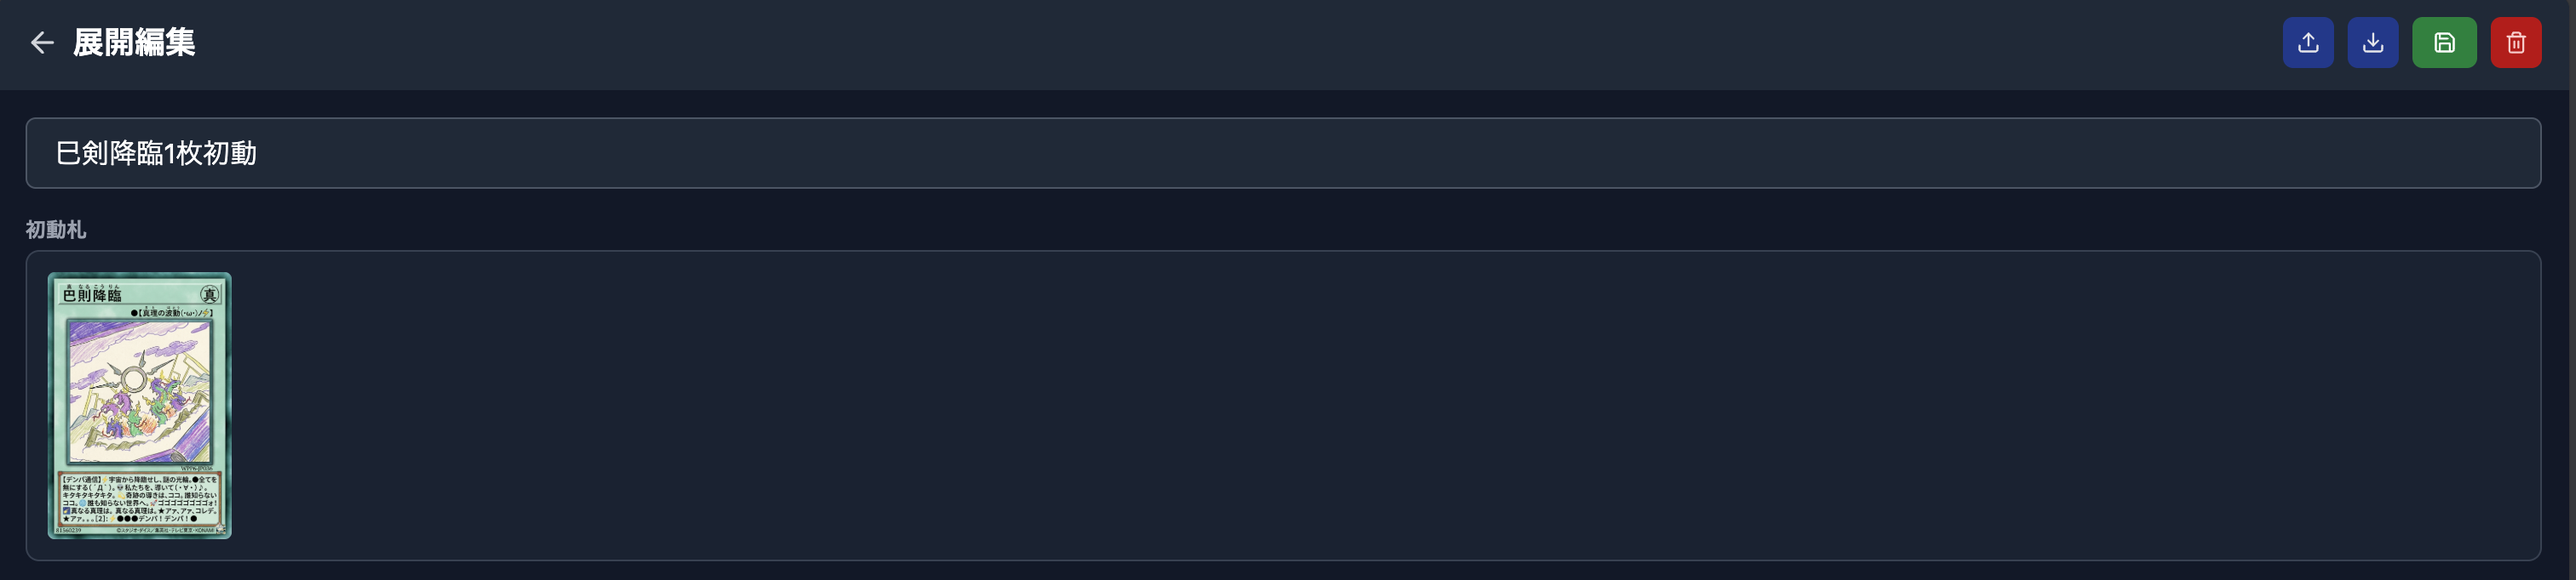
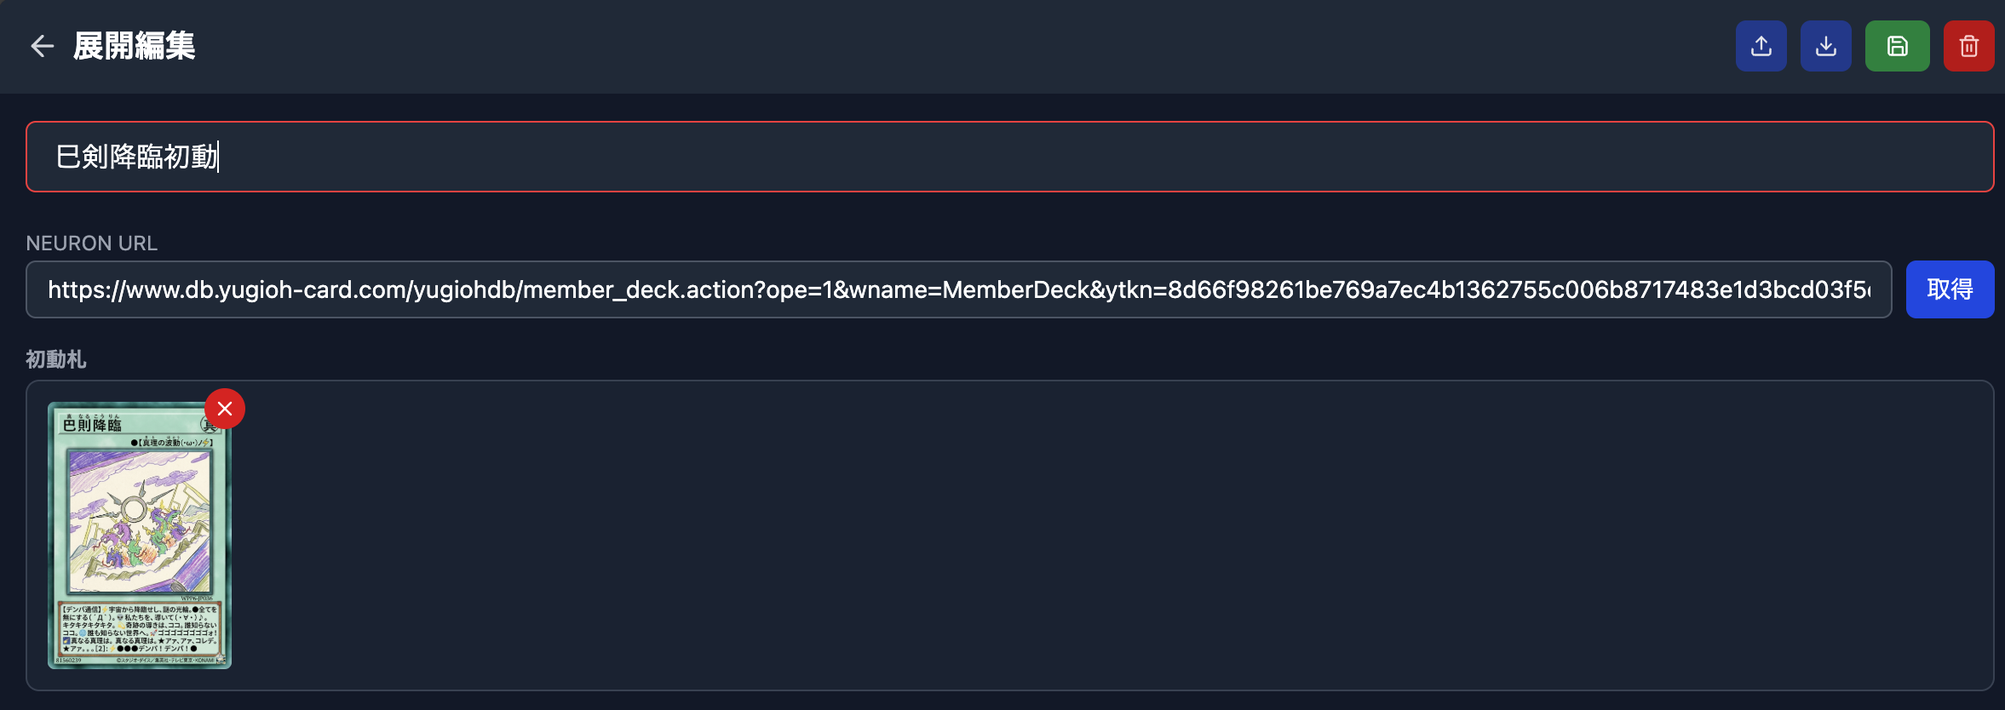
チュートリアルステップの画像を更新し、新しい画像を追加

Changed region(s): [[0.0, 0.1232, 1.0, 1.0], [0.8683, 0.0308, 1.0, 0.1232], [0.0, 0.0308, 0.093, 0.0924]]

diff --git a/src/components/tutorial/tutorialSteps.ts b/src/components/tutorial/tutorialSteps.ts
@@ -24,35 +24,35 @@ export const TUTORIAL_STEPS: Record<TutorialPageKey, TutorialStep[]> = {
       text: "こちらの画面では、展開を作成・編集できます。まず、展開のタイトルを入力します。",
     },
     {
-      image: "tutorial/edit-1.png",
+      image: "tutorial/edit-2.png",
       text: "NEURON URLにデッキURLを入力して「取得」ボタンを押すと、デッキ内のカード画像を一括取得できます。取得した画像は画像一覧に追加されます。",
     },
     {
-      image: "tutorial/edit-1.png",
+      image: "tutorial/edit-3.png",
       text: "初動札エリアには画面下部の画像一覧からドラッグ&ドロップで初動札を配置できます。タップで削除できます。",
     },
     {
-      image: "tutorial/edit-2.png",
+      image: "tutorial/edit-4.png",
       text: "「+」ボタンでステップを追加します。各ステップにテキストと盤面を設定できます。",
     },
     {
-      image: "tutorial/edit-3.png",
+      image: "tutorial/edit-5.png",
       text: "ステップの盤面にカードを配置できます。画像一覧からドラッグ&ドロップで配置してください。",
     },
     {
-      image: "tutorial/edit-4.png",
+      image: "tutorial/edit-6.png",
       text: "盤面上のカードをタップするとメニューが表示されます。チェーン番号の追加・編集、攻撃/守備表示の切り替え、削除ができます。",
     },
     {
-      image: "tutorial/edit-5.png",
+      image: "tutorial/edit-7.png",
       text: "左端のハンドル（≡）をドラッグしてステップの順番を並び替えられます。",
     },
     {
-      image: "tutorial/edit-6.png",
+      image: "tutorial/edit-8.png",
       text: "画像一覧です。画像を盤面や初動札にドラッグ&ドロップして配置します。スマホでは長押しでドラッグ開始です。削除エリアにドロップすると画像を削除できます。",
     },
     {
-      image: "tutorial/edit-7.png",
+      image: "tutorial/edit-9.png",
       text: "ヘッダーのボタンから、インポート（↑）・ダウンロード（↓）・保存（💾）・削除（🗑）ができます。",
     },
   ],
